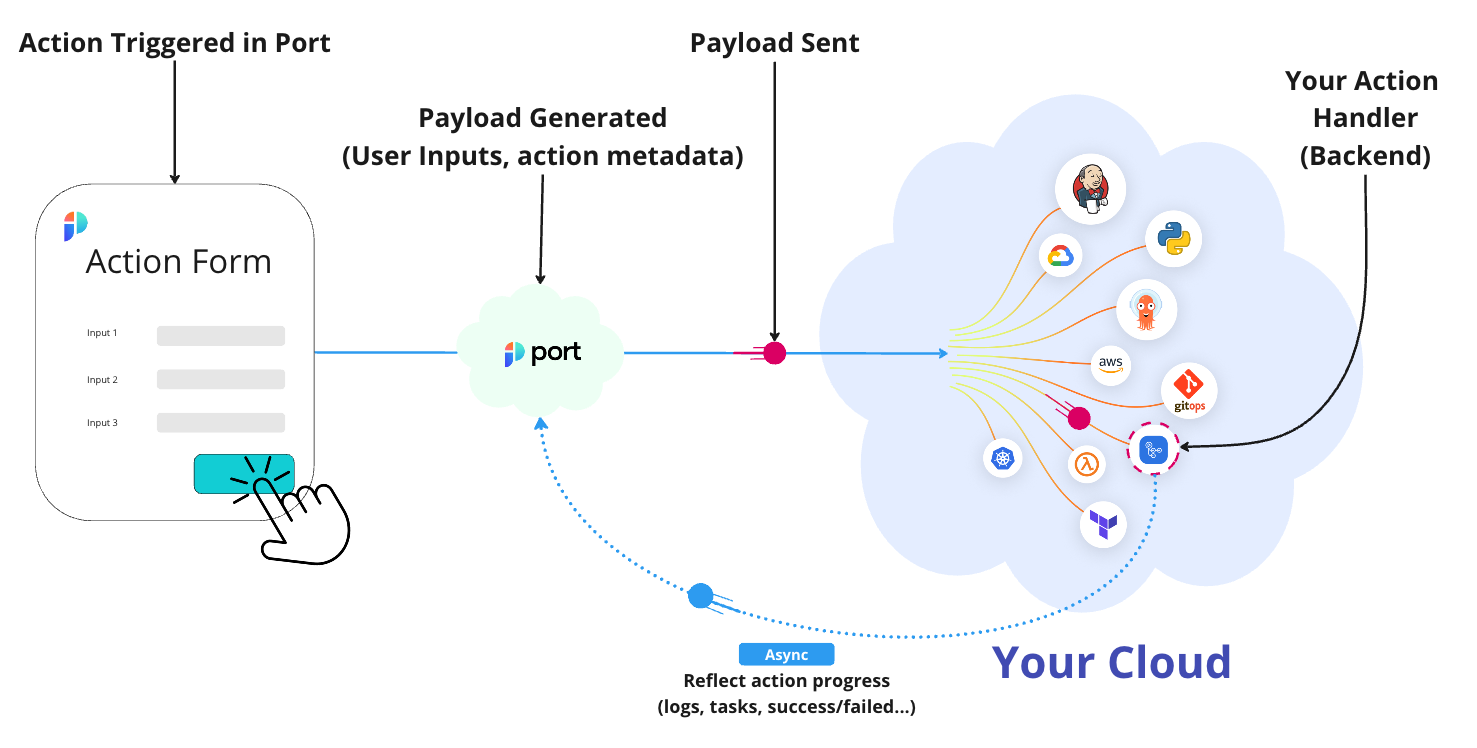
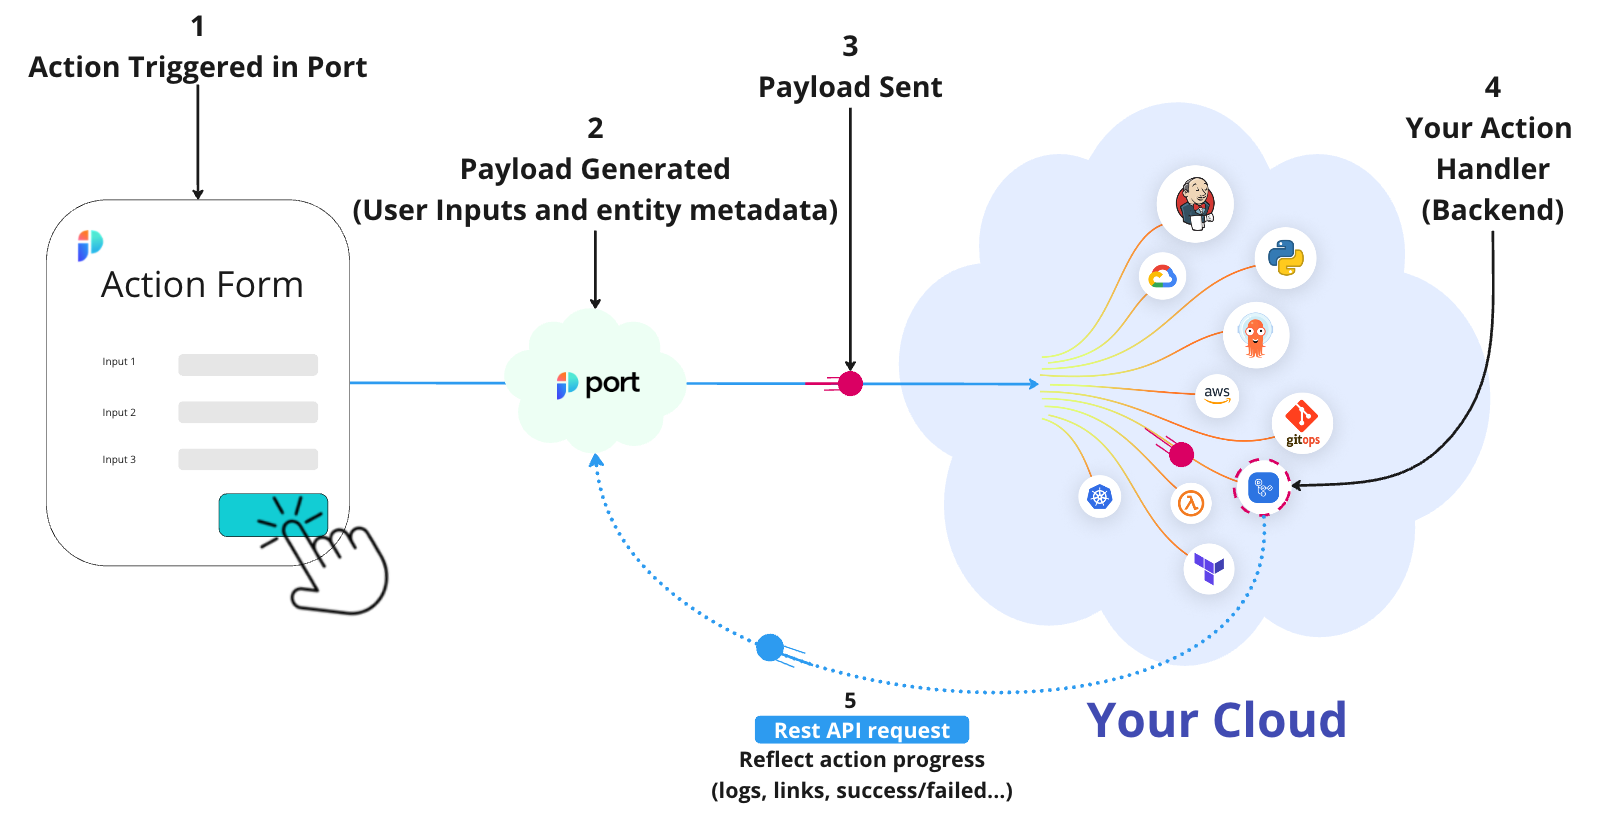
First draft of new self-service

diff --git a/docusaurus.config.js b/docusaurus.config.js
@@ -112,8 +112,8 @@ const config = {
                 to: "/build-your-software-catalog",
               },
               {
-                label: "Self-Service Actions",
-                to: "/self-service-actions",
+                label: "Create Self-Service Experiences",
+                to: "/create-self-service-experiences",
               },
               {
                 label: "Promote Scorecards",

diff --git a/docs/create-self-service-experiences/self-service-actions-deep-dive/self-service-actions-deep-dive.md b/docs/create-self-service-experiences/self-service-actions-deep-dive/self-service-actions-deep-dive.md
@@ -499,16 +499,16 @@ The `invocationMethod` object controls where Self-Service Actions are reported t
 
 The `invocationMethod` supports 3 configurations:
 
-- [Webhook](../webhook/webhook.md)
-- [Kafka](../kafka/kafka.md)
-- [GitHub](../github-workflow/github-workflow.md)
+- [Webhook](../setup-backend/webhook/webhook.md)
+- [Kafka](../setup-backend/kafka/kafka.md)
+- [GitHub](../setup-backend/github-workflow/github-workflow.md)
 
 ### Invocation method structure fields
 
 | Field                  | Type      | Description                                                                                                                                                                                                                                                                                  | Example values                      |
 | ---------------------- | --------- | -------------------------------------------------------------------------------------------------------------------------------------------------------------------------------------------------------------------------------------------------------------------------------------------- | ----------------------------------- |
 | `type`                 | `string`  | Defines the self-service action destination type                                                                                                                                                                                                                                             | Either `WEBHOOK`, `KAFKA`, `GITHUB` |
-| `agent`                | `boolean` | Defines whether to use [Port Agent](../webhook/port-execution-agent/port-execution-agent.md) for execution or not. <br></br> Can only be added if `type` is set to `WEBHOOK`                                                                                                                 | Either `true` or `false`            |
+| `agent`                | `boolean` | Defines whether to use [Port Agent](../setup-backend/webhook/port-execution-agent/port-execution-agent.md) for execution or not. <br></br> Can only be added if `type` is set to `WEBHOOK`                                                                                                   | Either `true` or `false`            |
 | `url`                  | `string`  | Defines the webhook URL to which Port sends self-service actions to via HTTP POST request. <br></br> Can be added only if `type` is set to `WEBHOOK`                                                                                                                                         | `https://example.com`               |
 | `org`                  | `string`  | Defines the GitHub organization name. <br></br> Can be added only if `type` is set to `GITHUB`                                                                                                                                                                                               | `port-labs`                         |
 | `repo`                 | `string`  | Defines the GitHub repository name. <br></br> Can be added only if `type` is set to `GITHUB`                                                                                                                                                                                                 | `port-docs`                         |
@@ -678,4 +678,4 @@ Here is an example `payload` object for a `CREATE` action:
 Now that you have the basics of Self-Service Actions, you can:
 
 - Learn about how to update a Self-Service Action after it started, by interacting with the [action run](./action-runs-tutorial) object;
-- Refer to our examples for some practical use-cases - [Setting up a basic execution runner using AWS Lambda](../../self-service-actions/kafka/examples/execution-basic-runner-using-aws-lambda.md).
+- Refer to our examples for some practical use-cases - [Setting up a basic execution runner using AWS Lambda](../setup-backend//kafka/examples/execution-basic-runner-using-aws-lambda.md).

diff --git a/docs/create-self-service-experiences/setup-backend/webhook/webhook.md b/docs/create-self-service-experiences/setup-backend/webhook/webhook.md
@@ -1,1 +1,56 @@
-# Webhook
+# Webhook Self-Service Actions
+
+Port can trigger webhooks based on a customer provided `URL` Both for `Action` and `Changelog` events.
+
+![Port Kafka Architecture](../../../../static/img/self-service-actions/portWebhookArchitecture.jpg)
+
+The steps shown in the image above are as follows:
+
+1. Port generates an invocation of `Action` or `Changelog` event.
+2. Port signs the payload + timestamp using `HMAC-SHA-256` and puts it in the request header.
+   :::info WEBHOOK SECURITY
+   Verifying the webhook request using the request headers provides the following benefits:
+
+   - Ensures that the request payload has not been tampered with
+   - Ensures that the sender of the message is Port
+   - Ensures that the received message is not a replay of an older message
+
+   To learn how to verify the webhook request, refer to the [Verifying Webhook Signature](../webhook/signature-verification) page.
+
+   :::
+
+3. Port publishes an invoked `Action` or `Changelog` via a `POST` request to the customer defined `URL`.
+4. A listener implemented on the Client side receives the new `POST` request and runs code defined by the DevOps team.
+
+:::info
+The listener can be anything that can read from a Kafka topic and run code based on the received message, for example:
+
+- AWS Lambda;
+- Python code that reads from the topic;
+- Docker container running code.
+
+You control how you interact with webhooks, in the way that best suits your organization and infrastructure.
+:::
+
+An example flow would be:
+
+1. A developer asks to deploy a new version of an existing `Microservice`;
+2. The `create` action is sent to the defined `URL`;
+3. An AWS Lambda function is triggered by this new action message;
+4. The Lambda function deploys a new version of the service;
+5. When the Lambda is done, it reports back to Port about the new Microservice `Deployment`.
+
+## Next steps
+
+To get started with webhook Self-Service Actions, please check the sources below:
+
+### Examples
+
+- [Create an S3 bucket using Self-Service Actions](./examples/s3-using-webhook.md)
+- [Webhook changelog listener](./examples/changelog-listener.md)
+- [Provisioning software templates using Cookiecutter](./examples/software-templates.md)
+
+### Local setup, debugging and security validation
+
+- [Debugging webhooks locally](./local-debugging-webhook.md)
+- [Validating webhook signatures](./signature-verification.md)

diff --git a/docs/create-self-service-experiences/setup-backend/webhook/port-execution-agent/quickstart.md b/docs/create-self-service-experiences/setup-backend/webhook/port-execution-agent/quickstart.md
@@ -44,7 +44,7 @@ helm install my-port-agent port-labs/port-agent \
 
 3. Follow one of the guides below:
 
-- [Self-Service Actions Deep Dive](../../self-service-actions-deep-dive/self-service-actions-deep-dive.md) - set up a Blueprint and Self-Service Actions.
+- [Self-Service Actions Deep Dive](../../../self-service-actions-deep-dive/self-service-actions-deep-dive.md) - set up a Blueprint and Self-Service Actions.
 - [Changelog Listener](../examples/changelog-listener.md) - create a Blueprint with `changelogDestination` to listen and act on changes in the software catalog.
 
 When using the execution agent, in the `url` field you need to provide a URL to a service (for example, a REST API) that will accept the invocation event.
@@ -57,8 +57,8 @@ When using the execution agent, in the `url` field you need to provide a URL to 
 
 <!-- TODO: add back the URLs here for changelog destination -->
 
-- [Self-Service Action invocation method](../../self-service-actions-deep-dive/self-service-actions-deep-dive.md#invocation-method-structure-fields) / Change Log destination `type` field value should be equal to `WEBHOOK`.
-- [Self-Service Action invocation method](../../self-service-actions-deep-dive/self-service-actions-deep-dive.md#invocation-method-structure-fields) / Change Log `agent` field value should be equal to `true`.
+- [Self-Service Action invocation method](../../../self-service-actions-deep-dive/self-service-actions-deep-dive.md#invocation-method-structure-fields) / Change Log destination `type` field value should be equal to `WEBHOOK`.
+- [Self-Service Action invocation method](../../../self-service-actions-deep-dive/self-service-actions-deep-dive.md#invocation-method-structure-fields) / Change Log `agent` field value should be equal to `true`.
 
 For example:
 
@@ -72,4 +72,4 @@ Well Done! **Port Agent** is now running in your environment and will trigger an
 
 When a new invocation is detected, the agent will pull it from your Kafka topic and forward it to the internal API in your private network.
 
-![Port Execution Agent Logs](../../../../static/img/self-service-actions/port-execution-agent/portAgentLogs.png)
+![Port Execution Agent Logs](../../../../../static/img/self-service-actions/port-execution-agent/portAgentLogs.png)

diff --git a/docs/create-self-service-experiences/setup-backend/github-workflow/github-workflow.md b/docs/create-self-service-experiences/setup-backend/github-workflow/github-workflow.md
@@ -1,1 +1,36 @@
-# GitHub Workflow Based
+# GitHub Workflow Self-Service Actions
+
+[Port's GitHub application](../../../build-your-software-catalog/sync-data-to-catalog/git/github/installation.md) can trigger a [GitHub workflow](https://docs.github.com/en/actions/using-workflows) using a customer provided input and [`port_payload`](../../self-service-actions-deep-dive/self-service-actions-deep-dive.md#action-message-structure).
+
+![Port Kafka Architecture](../../../../static/img/self-service-actions/portGithubWorkflowArchitecture.png)
+
+The steps shown in the image above are as follows:
+
+1. Port publishes an invoked `Action` message to a topic;
+2. A secure topic (`ORG_ID.github.runs`) holds all the action invocations;
+3. A listener implemented on Port's GitHub application receives the new topic message and runs GitHub workflow defined by the DevOps team.
+
+An example flow would be:
+
+1. A developer asks to deploy a new version of an existing `Microservice`;
+2. The `create` action is sent to the `github.runs` topic;
+3. Port's GitHub application event handler is triggered by this new action message;
+4. Port's GitHub application triggers the GitHub workflow that deploys a new version of the service;
+5. As part of the workflow, the new microservice `Deployment` is reported back to Port;
+6. When the workflow is done, Port's GitHub application reports back to Port about the status of the action run (`SUCCESS` or `FAILURE`), according to workflow's `conclusion`.
+
+:::info triggering workflow chains
+A workflow triggered using the `workflow_dispatch` trigger is self-contained. This means its actions and effects over the repository cannot trigger other automatic workflows.
+
+1. A developer invokes a "provision new microservice in monorepo" workflow;
+2. The workflow opens a new PR in the target repository based on a pre-defined template;
+3. The repository also has a workflow which is automatically triggered using the `on: pull_request: types: "opened"` trigger;
+4. In this instance, the automatic PR workflow will not be triggered.
+
+:::
+
+## Next step
+
+To get started with GitHub self-service actions, please check the sources below:
+
+- [Run a deployment for a service](./examples/run-service-deployment.md)

diff --git a/docs/create-self-service-experiences/setup-backend/kafka/kafka.md b/docs/create-self-service-experiences/setup-backend/kafka/kafka.md
@@ -1,1 +1,46 @@
-# Kafka Subscription Based
+# Kafka Self-Service Actions
+
+Port manages a Kafka Topic per customer that publishes the execution run requests.
+
+You can listen to a Kafka Topic with any code platform you wish to use, and also use it as a trigger for a serverless function. For example, AWS Lambda.
+
+![Port Kafka Architecture](../../../../static/img/self-service-actions/portKafkaArchitecture.jpg)
+
+The steps shown in the image above are as follows:
+
+1. Port publishes an invoked `Action` or `Change` message to Kafka;
+2. A secure Kafka topic holds all of the action invocations and changes;
+   :::note about topics
+   The actions and changes topics are separated, their formats are:
+
+   - Action Topic - `ORG_ID.runs`
+   - Changes Topic - `ORG_ID.change.log`
+
+   :::
+
+3. A listener implemented on the Client side receives the new topic message and runs code defined by the DevOps team.
+
+:::info
+The listener can be anything that can read from a Kafka topic and run code based on the received message, for example:
+
+- AWS Lambda;
+- Python code that reads from the topic;
+- Docker container running code.
+
+You control how you interact with these topics, in the way that best suits your organization and infrastructure.
+:::
+
+An example flow would be:
+
+1. A developer asks to deploy a new version of an existing `Microservice`;
+2. The `create` action is sent to the `runs` Kafka topic;
+3. An AWS Lambda function is triggered by this new action message;
+4. The Lambda function deploys a new version of the service;
+5. When the Lambda is done, it reports back to Port about the new Microservice `Deployment`.
+
+## Next steps
+
+To get started with webhook Self-Service Actions, please check the sources below:
+
+- [Setting up a basic execution runner using AWS Lambda](./examples/execution-basic-runner-using-aws-lambda.md)
+- [Setting up a basic change log listener using AWS Lambda](./examples/changelog-basic-change-listener-using-aws-lambda.md)

diff --git a/docs/create-self-service-experiences/setup-backend/github-workflow/examples/scaffold-repositories-using-cookiecutter.md b/docs/create-self-service-experiences/setup-backend/github-workflow/examples/scaffold-repositories-using-cookiecutter.md
@@ -15,8 +15,8 @@ Follow these steps to get started with the Golang template:
 1. Create the following GitHub action secrets:
 
    1. `ORG_TOKEN` - a PAT (Personal Access Token) with permissions to create repositories;
-   2. `PORT_CLIENT_ID` - Port Client ID [learn more](.././../../build-your-software-catalog/sync-data-to-catalog/api/#get-api-token);
-   3. `PORT_CLIENT_SECRET` - Port Client Secret [learn more](.././../../build-your-software-catalog/sync-data-to-catalog/api/#get-api-token);
+   2. `PORT_CLIENT_ID` - Port Client ID [learn more](../../../../build-your-software-catalog/sync-data-to-catalog/api/#get-api-token);
+   3. `PORT_CLIENT_SECRET` - Port Client Secret [learn more](../../../../build-your-software-catalog/sync-data-to-catalog/api/#get-api-token);
 
 2. Install Port's GitHub app by clicking [here](https://github.com/apps/getport-io/installations/new);
 
@@ -131,9 +131,9 @@ jobs:
 
 6. Trigger the action from Port's UI.
 
-![gif](../../../../static/img/self-service-actions/ScaffoldGolang.gif)
+![gif](../../../../../static/img/self-service-actions/ScaffoldGolang.gif)
 
 ## Next steps
 
-- [Connect Port's GitHub exporter](.././../../build-your-software-catalog/sync-data-to-catalog/git/github/examples)
-  to make sure all of the properties (like URL, readme etc..) are automatically ingested from GitHub. You can learn how to setup Port's GitHub exporter [here](.././../../build-your-software-catalog/sync-data-to-catalog/git/github/examples#mapping-repositories-and-issues) you can find more information about it.
+- [Connect Port's GitHub exporter](../../../../build-your-software-catalog/sync-data-to-catalog/git/github/examples)
+  to make sure all of the properties (like URL, readme etc..) are automatically ingested from GitHub. You can learn how to setup Port's GitHub exporter [here](../../../../build-your-software-catalog/sync-data-to-catalog/git/github/examples#mapping-repositories-and-issues) you can find more information about it.

diff --git a/docs/create-self-service-experiences/setup-backend/webhook/local-debugging-webhook.md b/docs/create-self-service-experiences/setup-backend/webhook/local-debugging-webhook.md
@@ -6,7 +6,7 @@ sidebar_position: 2
 
 In this guide, we will show you how to debug Webhook Self-Service Actions that are sent from Port locally.
 
-This example contains the initial steps to set up a standard Self-Service Action use case, following it shows how to locally debug the payload sent by Port through the webhook [invocation method](../self-service-actions-deep-dive/self-service-actions-deep-dive.md#invocation-method).
+This example contains the initial steps to set up a standard Self-Service Action use case, following it shows how to locally debug the payload sent by Port through the webhook [invocation method](../../self-service-actions-deep-dive/self-service-actions-deep-dive.md#invocation-method).
 
 ## Prerequisites
 
@@ -362,15 +362,15 @@ node index.js
 
 Login to port and go to the VM page and trigger the action via the **Create VM** action button:
 
-![Create VM button](../../../static/img/self-service-actions/CreateVMDropdown.png)
+![Create VM button](../../../../static/img/self-service-actions/CreateVMDropdown.png)
 
 Fill the wanted details and click on `Create`
 
-![Create VM action form](../../../static/img/self-service-actions/CreateVMExecution.png)
+![Create VM action form](../../../../static/img/self-service-actions/CreateVMExecution.png)
 
 And that's it, the `Success!` output shows that your local server really did receive your webhook payload:
 
-![Webhook server response](../../../static/img/self-service-actions/HelloWorldLog.png)
+![Webhook server response](../../../../static/img/self-service-actions/HelloWorldLog.png)
 
 :::tip
 Now that webhook requests are forwarded to your local machine, you can use your IDE to place breakpoints, examine the structure of the webhook request and iterate on your custom handler logic.

diff --git a/docs/create-self-service-experiences/setup-backend/azure-pipeline/examples/examples.md b/docs/create-self-service-experiences/setup-backend/azure-pipeline/examples/examples.md
@@ -2,7 +2,7 @@
 sidebar_position: 1
 ---
 
-import FindCredentials from "../../../build-your-software-catalog/sync-data-to-catalog/api/\_template_docs/\_find_credentials_collapsed.mdx";
+import FindCredentials from "../../../../build-your-software-catalog/sync-data-to-catalog/api/\_template_docs/\_find_credentials_collapsed.mdx";
 
 # Examples
 
@@ -12,7 +12,7 @@ In the following guide, you are going to build a self-service action in Port tha
 
 ### Prerequisites
 
-- You will need your [Port credentials](../../../build-your-software-catalog/sync-data-to-catalog/api/api.md#find-your-port-credentials) to create the action;
+- You will need your [Port credentials](../../../../build-your-software-catalog/sync-data-to-catalog/api/api.md#find-your-port-credentials) to create the action;
 - You will need your Azure DevOps organization;
 - You will need the name of the webhook that you configured in your Azure pipelines yaml;
 
@@ -117,7 +117,7 @@ Here is the JSON of the action:
 Don't forget to replace the placeholders for `YOUR_AZURE_DEVOPS_ORG`, `YOUR_AZURE_DEVOPS_WEBHOOK_NAME`.
 :::
 
-To learn how to generate an API token to interact with Port, look [here](../../../build-your-software-catalog/sync-data-to-catalog/api/#generate-an-api-token).
+To learn how to generate an API token to interact with Port, look [here](../../../../build-your-software-catalog/sync-data-to-catalog/api/#generate-an-api-token).
 
 To update the status of the action in Port, use the following API call in your Azure pipeline:
 

diff --git a/docs/create-self-service-experiences/setup-backend/github-workflow/examples/run-service-deployment.md b/docs/create-self-service-experiences/setup-backend/github-workflow/examples/run-service-deployment.md
@@ -76,9 +76,9 @@ jobs:
 
 :::note
 Pay attention to the additional parameter in the workflow called `port_payload`.
-This parameter is completed by default with [Port's action message](../../self-service-actions-deep-dive/self-service-actions-deep-dive.md#action-message-structure).
+This parameter is completed by default with [Port's action message](../../../self-service-actions-deep-dive/self-service-actions-deep-dive.md#action-message-structure).
 You can disable it by specifying `"omitPayload": true` in Port's action definition.
-For more details click [here](../../self-service-actions-deep-dive/self-service-actions-deep-dive.md#invocation-method-structure-fields)
+For more details click [here](../../../self-service-actions-deep-dive/self-service-actions-deep-dive.md#invocation-method-structure-fields)
 :::
 
 ## Create a deployment Blueprint
@@ -339,7 +339,7 @@ print(response.json())
 
 When the action is finished, it will mark the action run as successful. That way, your developers can understand your deployment has finished successfully.
 
-![Action run audit log](../../../../static/img/self-service-actions/run-service-deployment/runs-audit-log.png)
+![Action run audit log](../../../../../static/img/self-service-actions/run-service-deployment/runs-audit-log.png)
 
 ## Next step
 

diff --git a/docs/create-self-service-experiences/setup-backend/setup-backend.md b/docs/create-self-service-experiences/setup-backend/setup-backend.md
@@ -1,5 +1,7 @@
 # Setup Backend
 
+import DocCardList from '@theme/DocCardList';
+
 Port's self-service actions support a variety of backends that can be triggered when a user invokes an action.
 
 Here is the basic backend model:
@@ -10,4 +12,10 @@ The Port-backend integration includes the following steps:
 
 1. **The action is triggered in Port** - the trigger can be either a user interacting with the self-service actions UI, or an automation triggering an action via the API;
 2. **Port generates the event payload** - the payload includes metadata about the invoked action and the user inputs;
-3. **The payload is sent to your backend** -
+3. **The payload is sent to your backend** - the backend can be a URL, a dedicated Kafka topic or one of your CI/CD workflows and pipelines;
+4. **Your backend receives the payload and handles the request** - depending on the action, the backend might open a PR, create a new cloud resource, provision a new environment etc.;
+5. **Your backend updates Port on the status of the execution** - You can enrich the action run object in Port by adding logs, attaching links to other workflows or pipelines that help fullfil the request and add a final success/fail status once the action is complete.
+
+## Supported backends
+
+<DocCardList/>

diff --git a/docs/create-self-service-experiences/setup-backend/azure-pipeline/azure-pipeline.md b/docs/create-self-service-experiences/setup-backend/azure-pipeline/azure-pipeline.md
@@ -2,12 +2,12 @@
 
 Port can trigger [Azure pipelines](https://azure.microsoft.com/en-us/products/devops/pipelines) using [incoming webhooks triggers](https://learn.microsoft.com/en-us/azure/devops/pipelines/process/resources?view=azure-devops&tabs=schema#define-a-webhooks-resource).
 
-![AzurePipelinesArchitecture](../../../static/img/self-service-actions/portAzurePipelineArchitecture.png)
+![AzurePipelinesArchitecture](../../../../static/img/self-service-actions/portAzurePipelineArchitecture.png)
 
 The steps shown in the image above are as follows:
 
 1. An action is invoked in Port;
-2. Port signs the action payload using SHA-1 with the [`clientSecret`](../../build-your-software-catalog/sync-data-to-catalog/api/api.md#find-your-port-credentials) value and puts it in the `X-Port-Signature` request header.
+2. Port signs the action payload using SHA-1 with the [`clientSecret`](../../../build-your-software-catalog/sync-data-to-catalog/api/api.md#find-your-port-credentials) value and puts it in the `X-Port-Signature` request header.
 
    :::info WEBHOOK SECURITY
    Verifying the webhook request using the request headers provides the following benefits:
